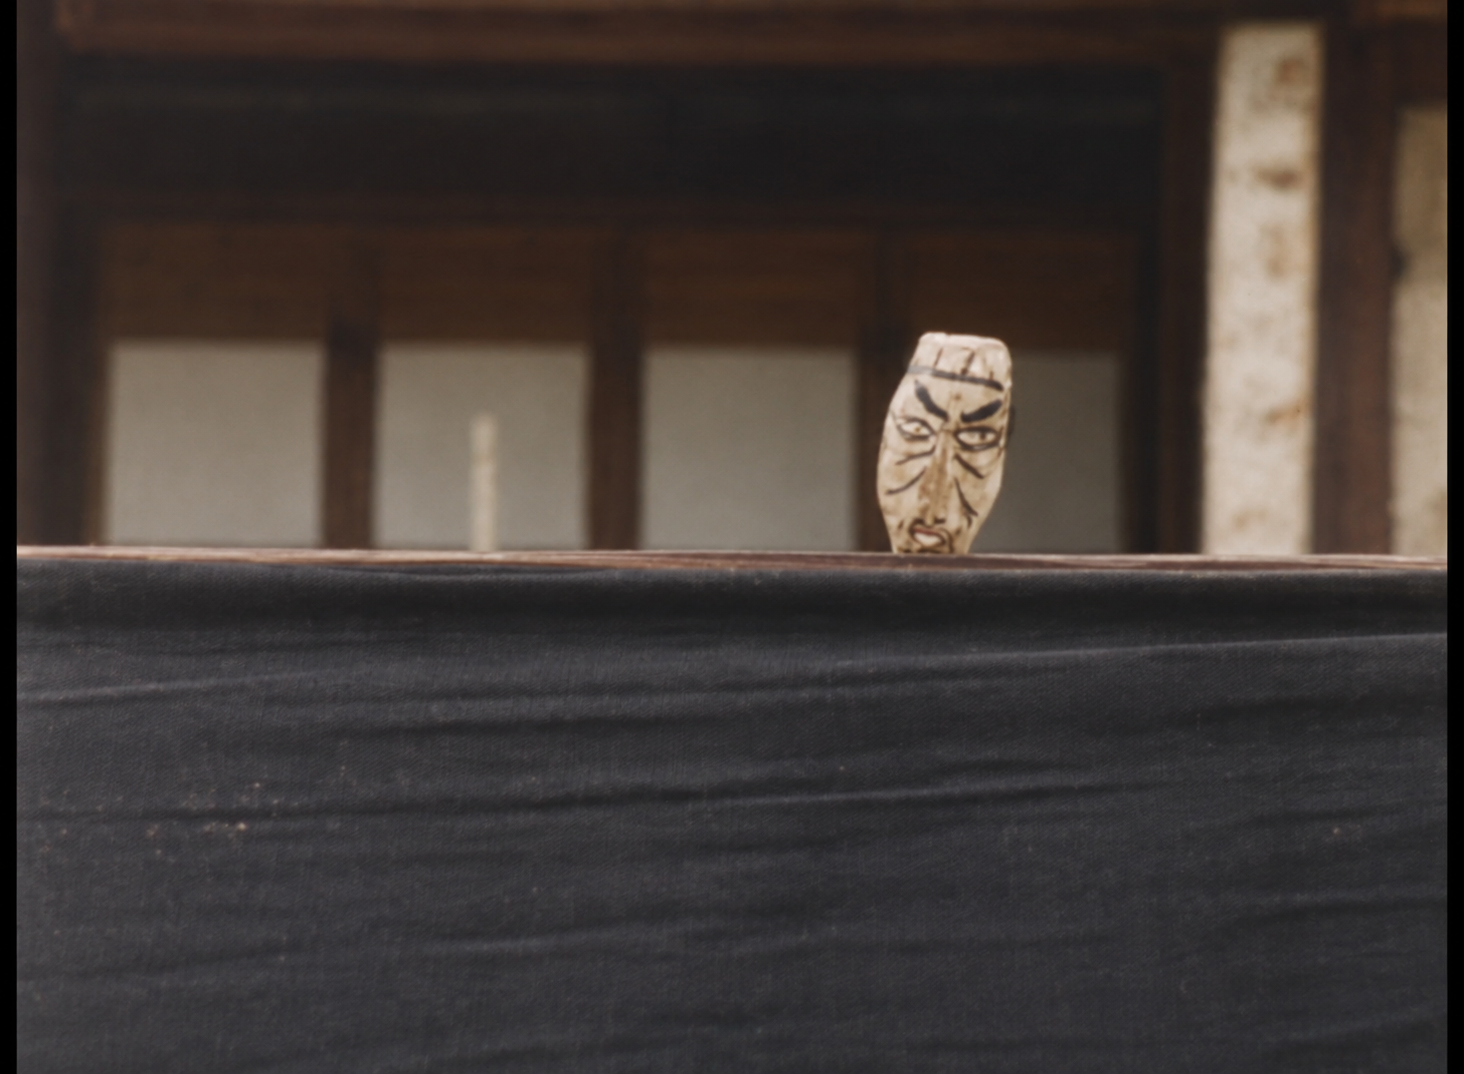
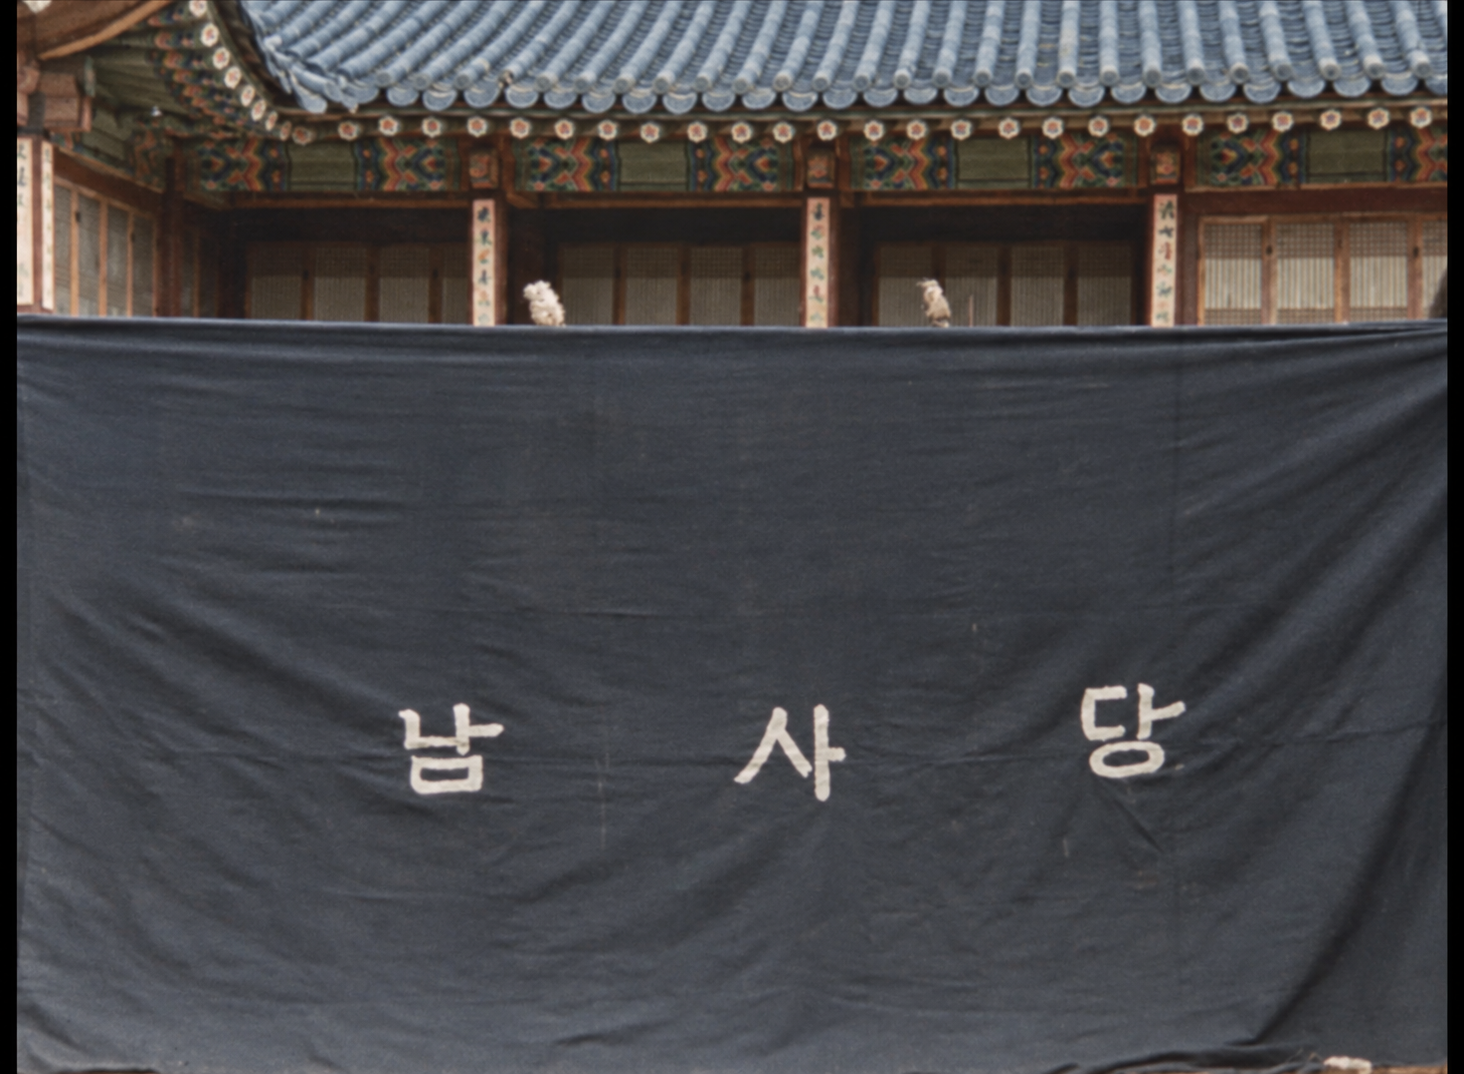
Colorize added Deolmi stills 1 3 and 5

diff --git a/99_Logs/2026/2026년 9월 작업 로그.md b/99_Logs/2026/2026년 9월 작업 로그.md
@@ -9,6 +9,16 @@ updated: 2026-09-22
 
 # 2026년 9월 작업 로그
 
+## [2026-09-22] create | 덜미 이미지 추가 3장 컬러화
+
+- 사용자 번호 변경 뒤 `assets/영상/덜미/남사당놀이_1.png`, `남사당놀이_3.png`, `남사당놀이_5.png`를 각각 이미지 편집 도구로 컬러화함. 현재의 흑백 원본과 다른 번호의 컬러본은 수정하지 않음
+- 무대와 인형의 원본 구도를 유지하도록 지시함. `_1`의 `남 사 당` 글자와 막 위의 작은 인형 두 개, `_3`의 왼쪽에서 잘린 인형과 가운데 인형, `_5`의 단독 인형을 결과에서 확인함
+- 결과는 `_1` 1464×1074, `_3` 1464×1075, `_5` 1464×1074 RGB PNG임. 흑백 원본으로 확인할 수 없는 색과 세부 질감은 생성 결과이며 실제 전승 색상을 확정하지 않음
+- P1 자기검수에서 각 결과의 인형 수, 화면 배치와 읽을 수 있는 글자를 해당 흑백 원본과 대조함. P5 자기검수에서 위키 문서와 anchor는 변경하지 않았음을 확인함
+- 자동 검사: 스테이징된 변경의 넘버링 어긋남, lint 오류와 인용 어긋남 0건. 전체 작업 트리 lint의 기존 오류 1건과 경고 27건은 이번 생성 파일과 무관함
+- G1 판정: 영상용 이미지 자산으로 사용자 확인 대기
+- 생성 파일: `assets/영상/덜미/남사당놀이_1_컬러.png`, `assets/영상/덜미/남사당놀이_3_컬러.png`, `assets/영상/덜미/남사당놀이_5_컬러.png`; 수정 파일: `99_Logs/2026/2026년 9월 작업 로그.md`
+
 ## [2026-09-22] create | 덜미 흑백 이미지 4장 컬러화
 
 - `assets/영상/덜미/남사당놀이_0.png`부터 `남사당놀이_3.png`까지를 각각 이미지 편집 도구의 원본으로 사용함. 흑백 원본 4장은 보존하고 같은 폴더에 `_컬러.png` 파일을 추가함
